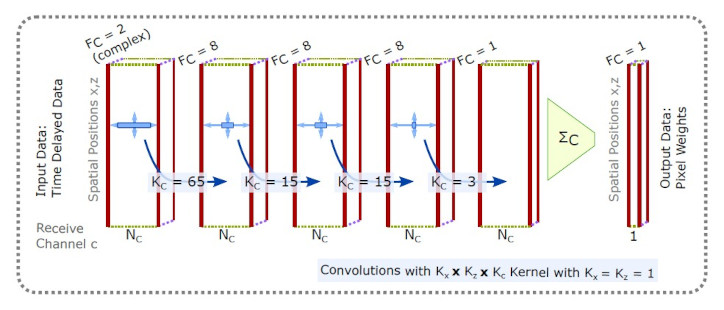
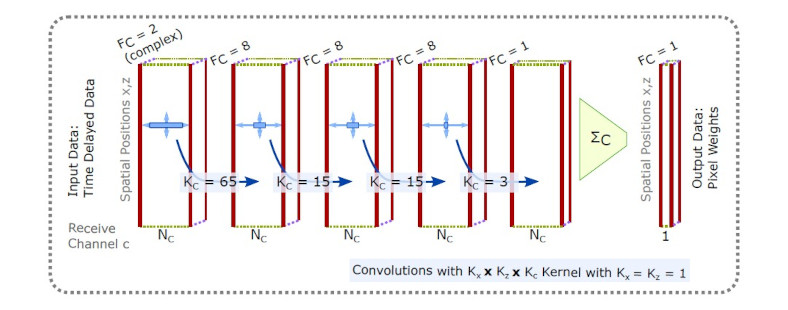
deploy: djps/homepage@f71e3ca72c6e245bf6b00b8b056e67cb20631a07

diff --git a/publication/rothluebbers2020iiq/index.html b/publication/rothluebbers2020iiq/index.html
@@ -982,9 +982,9 @@
 </div>
 
 
-<div class="article-header article-container featured-image-wrapper mt-4 mb-4" style="max-width: 720px; max-height: 308px;">
+<div class="article-header article-container featured-image-wrapper mt-4 mb-4" style="max-width: 720px; max-height: 283px;">
   <div style="position: relative">
-    <img src="/publication/rothluebbers2020iiq/featured_hu993d3267bdd5de8fd84ece8a2c86c29c_65946_4489dd4384d7dc20e509f9168fcc6d27.webp" width="720" height="308" alt="Schematic of simple convolutional network for beamforming" class="featured-image">
+    <img src="/publication/rothluebbers2020iiq/featured_hu993d3267bdd5de8fd84ece8a2c86c29c_66222_8736074b5d6ca781f6d858bb2a8a54a7.webp" width="720" height="283" alt="Schematic of simple convolutional network for beamforming" class="featured-image">
     
   </div>
 </div>

diff --git a/index.html b/index.html
@@ -2764,7 +2764,7 @@
     
     <a href="/publication/rothluebbers2020iiq/" >
       <div class="img-hover-zoom">
-        <img src="/publication/rothluebbers2020iiq/featured_hu993d3267bdd5de8fd84ece8a2c86c29c_65946_fbc354f7a0a3b61a8cc51339820f3ba4.webp" height="455" width="808"
+        <img src="/publication/rothluebbers2020iiq/featured_hu993d3267bdd5de8fd84ece8a2c86c29c_66222_d9d5c47c69f8a251b0e35d3331e0189b.webp" height="455" width="808"
             class="article-banner" alt="Improving image quality of single plane wave ultrasound via deep learning based channel compounding" loading="lazy">
       </div>
     </a>

diff --git a/publication/index.html b/publication/index.html
@@ -1883,7 +1883,7 @@
     
     <a href="/publication/rothluebbers2020iiq/" >
       <div class="img-hover-zoom">
-        <img src="/publication/rothluebbers2020iiq/featured_hu993d3267bdd5de8fd84ece8a2c86c29c_65946_fbc354f7a0a3b61a8cc51339820f3ba4.webp" height="455" width="808"
+        <img src="/publication/rothluebbers2020iiq/featured_hu993d3267bdd5de8fd84ece8a2c86c29c_66222_d9d5c47c69f8a251b0e35d3331e0189b.webp" height="455" width="808"
             class="article-banner" alt="Improving image quality of single plane wave ultrasound via deep learning based channel compounding" loading="lazy">
       </div>
     </a>

diff --git a/project/cubdl/index.html b/project/cubdl/index.html
@@ -1408,7 +1408,7 @@
       
       
       <a href="/publication/rothluebbers2020iiq/" >
-        <img src="/publication/rothluebbers2020iiq/featured_hu993d3267bdd5de8fd84ece8a2c86c29c_65946_d8d70a021e89f2aaa684e14df9bad8db.webp" height="64" width="150"
+        <img src="/publication/rothluebbers2020iiq/featured_hu993d3267bdd5de8fd84ece8a2c86c29c_66222_9431716924a7158dba9e44e4d99cca7f.webp" height="59" width="150"
             alt="Improving image quality of single plane wave ultrasound via deep learning based channel compounding" loading="lazy">
       </a>
     

diff --git a/publication-type/paper-conference/index.html b/publication-type/paper-conference/index.html
@@ -1080,7 +1080,7 @@
       
       
       <a href="/publication/rothluebbers2020iiq/" >
-        <img src="/publication/rothluebbers2020iiq/featured_hu993d3267bdd5de8fd84ece8a2c86c29c_65946_d8d70a021e89f2aaa684e14df9bad8db.webp" height="64" width="150"
+        <img src="/publication/rothluebbers2020iiq/featured_hu993d3267bdd5de8fd84ece8a2c86c29c_66222_9431716924a7158dba9e44e4d99cca7f.webp" height="59" width="150"
             alt="Improving image quality of single plane wave ultrasound via deep learning based channel compounding" loading="lazy">
       </a>
     

diff --git a/tag/beamforming/index.html b/tag/beamforming/index.html
@@ -1067,7 +1067,7 @@
       
       
       <a href="/publication/rothluebbers2020iiq/" >
-        <img src="/publication/rothluebbers2020iiq/featured_hu993d3267bdd5de8fd84ece8a2c86c29c_65946_d8d70a021e89f2aaa684e14df9bad8db.webp" height="64" width="150"
+        <img src="/publication/rothluebbers2020iiq/featured_hu993d3267bdd5de8fd84ece8a2c86c29c_66222_9431716924a7158dba9e44e4d99cca7f.webp" height="59" width="150"
             alt="Improving image quality of single plane wave ultrasound via deep learning based channel compounding" loading="lazy">
       </a>
     

diff --git a/tag/imaging/index.html b/tag/imaging/index.html
@@ -1067,7 +1067,7 @@
       
       
       <a href="/publication/rothluebbers2020iiq/" >
-        <img src="/publication/rothluebbers2020iiq/featured_hu993d3267bdd5de8fd84ece8a2c86c29c_65946_d8d70a021e89f2aaa684e14df9bad8db.webp" height="64" width="150"
+        <img src="/publication/rothluebbers2020iiq/featured_hu993d3267bdd5de8fd84ece8a2c86c29c_66222_9431716924a7158dba9e44e4d99cca7f.webp" height="59" width="150"
             alt="Improving image quality of single plane wave ultrasound via deep learning based channel compounding" loading="lazy">
       </a>
     
